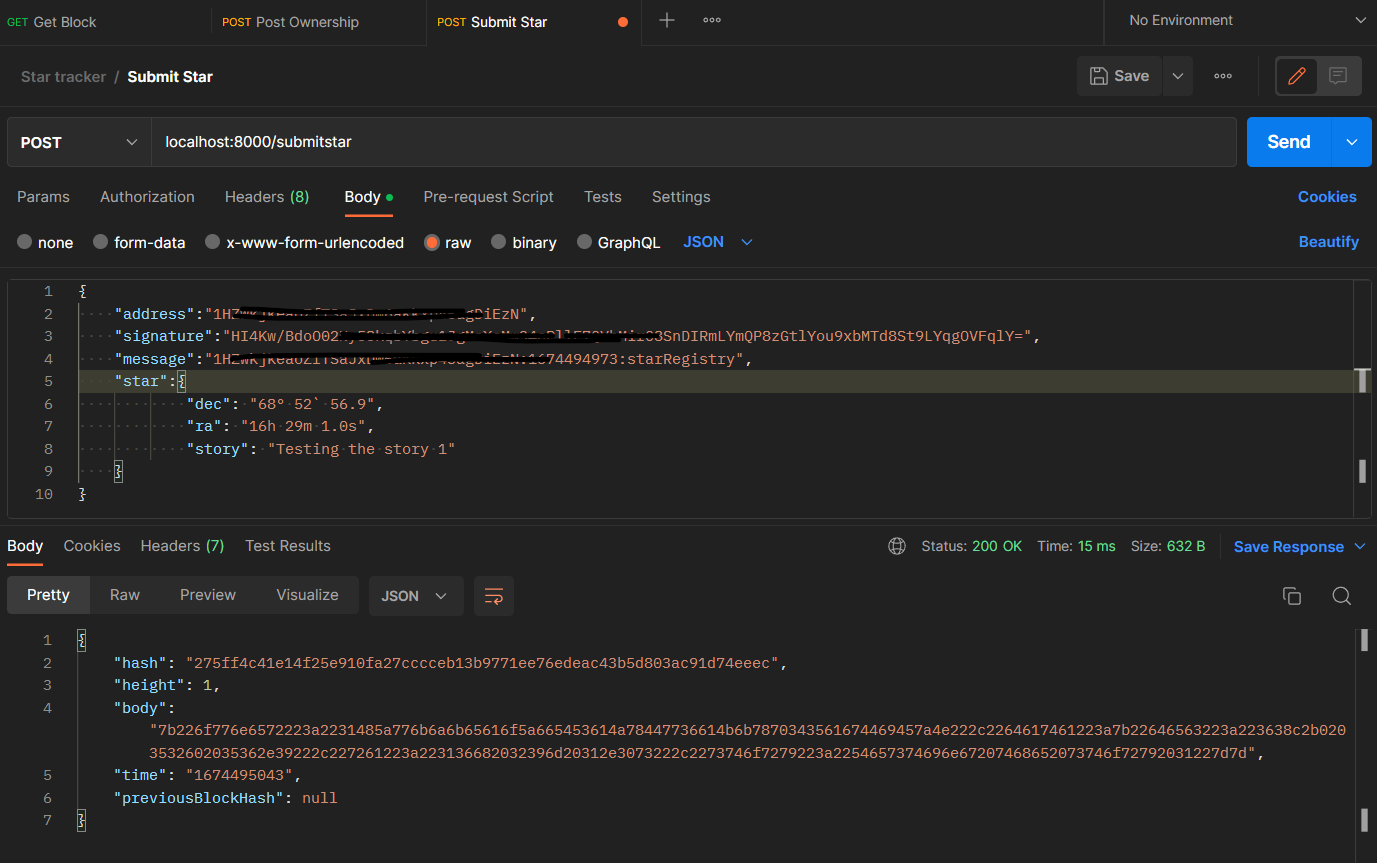
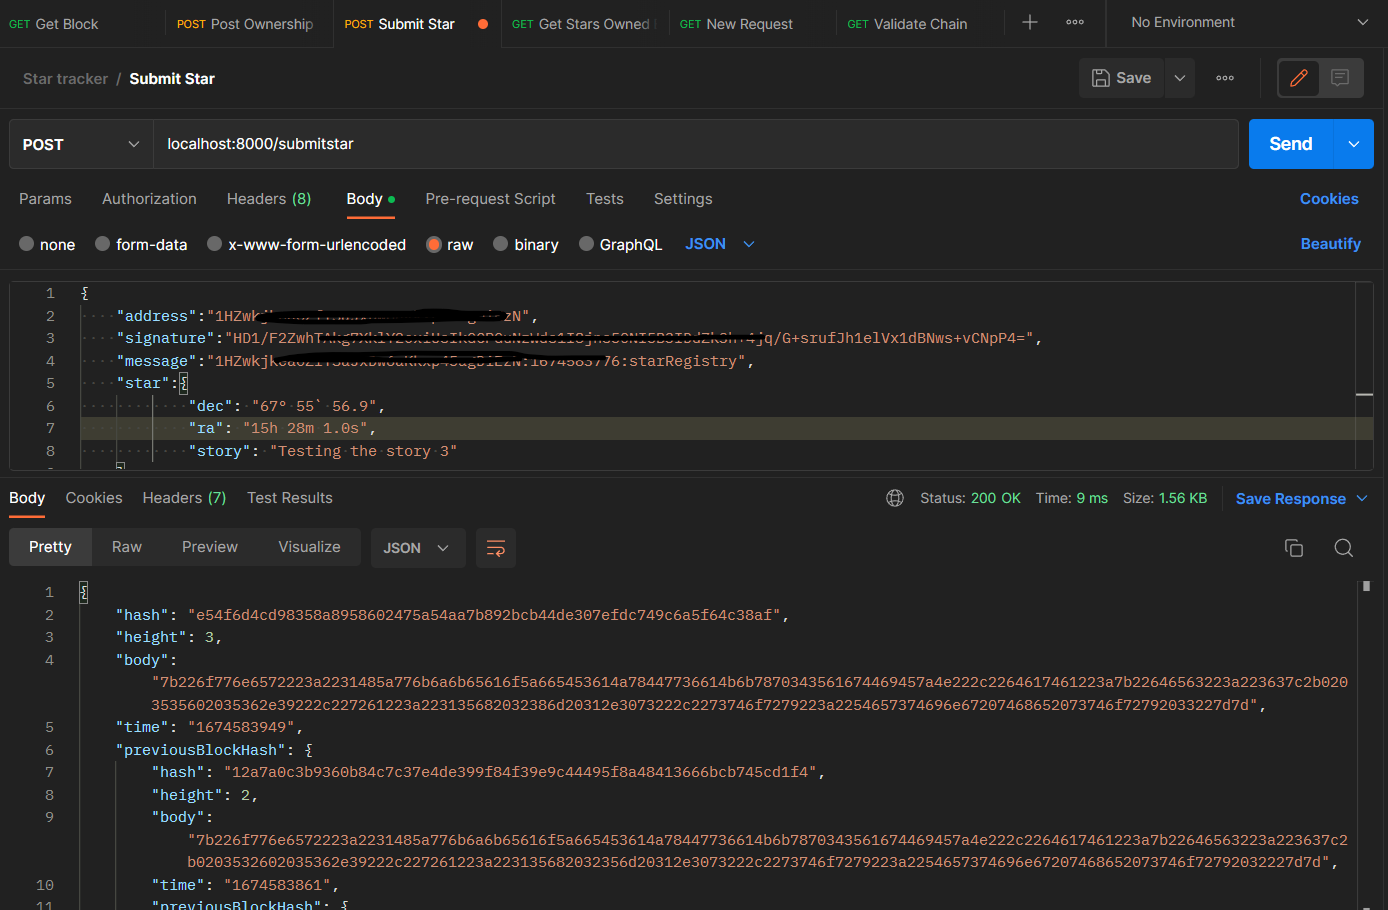
validate chain

diff --git a/src/blockchain.js b/src/blockchain.js
@@ -62,33 +62,30 @@ class Blockchain {
      * that this method is a private method. 
      */
 
-    _addBlock(block) {
+    _addBlock(block){
         let self = this;
-        try {
-            return new Promise(async (resolve, reject) => {
-                let currentBlock = block;
-                let currentHeight = self.height;
-                currentBlock.time = new Date().getTime().toString().slice(0, -3);
+        return new Promise(async (resolve, reject) => {
+            let currentHeight = self.height;
+            
+            block.previousBlockHash = self.chain[self.height] ? self.chain[self.height] : null;
+            block.time = new Date().getTime().toString().slice(0,-3);
+            block.height = currentHeight + 1;
+            block.hash = await SHA256(
+                JSON.stringify({ ...block, hash: null})).toString();
+            let blockValidation = 
+                (await self.validateChain()) &&
+                block.hash &&
+                block.time &&
+                block.height === self.chain.length;
 
-                if (currentHeight > 0) {
-                    currentBlock.height = currentHeight + 1;
-                    let previousBlock = self.chain[self.height];
-                    currentBlock.previousBlockHash = previousBlock.hash;
-                    currentBlock.hash = SHA256(JSON.stringify(currentBlock)).toString();
-                    self.chain.push(currentBlock);
-                    self.height += 1;
-                    resolve(currentBlock);
-                } else {
-                    currentBlock.height = currentHeight + 1;
-                    currentBlock.hash = SHA256(JSON.stringify(currentBlock)).toString();
-                    self.chain.push(currentBlock);
-                    self.height += 1;
-                    resolve(currentBlock);
-                }
-            });
-        } catch (error) {
-            console.log(`ERROR: ${error}`);
-        }
+            blockValidation ? resolve(block) : reject(new Error("Invalid block."));
+        }).catch ((error) => {
+            console.log(`[ERROR]: ${error}`);
+        }).then ((block) => {
+            self.chain.push(block);
+            self.height += 1;
+            return block;
+        });
     }
 
     /**

diff --git a/BlockchainController.js b/BlockchainController.js
@@ -12,6 +12,7 @@ class BlockchainController {
         this.blockchain = blockchainObj;
         // All the endpoints methods needs to be called in the constructor to initialize the route.
         this.getBlockByHeight();
+        this.validateChain();
         this.requestOwnership();
         this.submitStar();
         this.getBlockByHash();
@@ -35,6 +36,24 @@ class BlockchainController {
             
         });
     }
+
+    // Endpoint to validate the entire chain
+    validateChain() {
+        this.app.get("/validateChain", async (req, res) =>{
+        try {
+            const errorLog = await this.blockchain.validateChain();
+            if (typeof errorLog === "string") {
+                return res.status(200).send("No issues found in the chain.");
+            } else {
+                return res.status(200).json(errorLog);
+            }
+        } catch (error) {
+            return res.status(500).send("Broken validation error.");
+            }
+        });
+      }
+
+
 
     // Endpoint that allows user to request Ownership of a Wallet address (POST Endpoint)
     requestOwnership() {

diff --git a/README.md b/README.md
@@ -79,6 +79,15 @@ Body settings: raw, JSON
 <figcaption>Submitt a star</figcaption></center>
 <br/>
 
+### 5.- Validate the chain.
+
+GET <code>localhost:8000/validateChain</code>
+
+<center>
+<img src='images/validate_c.png'/>
+<figcaption>Validate chain</figcaption></center>
+<br/>
+
 ### Optional.- Retrieve Stars owned by me.
 
 GET <code>localhost:8000/blocks/1HxxxxxkeaoZ*****************EzN</code>
